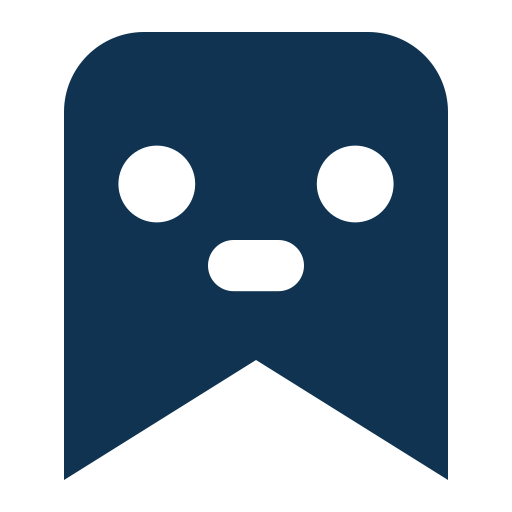
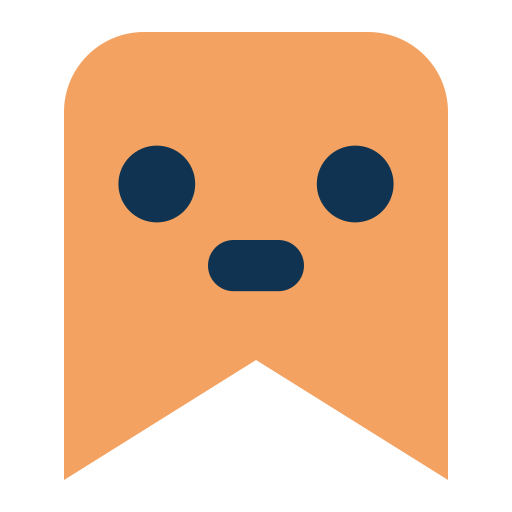
style: use the orange symbol on light backgrounds too
The symbol is now orange with navy eyes and mouth in every theme. The
light lockup keeps its navy wordmark. The favicon no longer switches
colours with the system theme, and the hero panel needs a single image.

diff --git a/src/styles/landing.css b/src/styles/landing.css
@@ -664,18 +664,6 @@ figure.demo-figure figcaption {
 	overflow-wrap: anywhere;
 }
 
-.hero-panel-brand .symbol-dark {
-	display: none;
-}
-
-:root[data-theme='dark'] .hero-panel-brand .symbol-light {
-	display: none;
-}
-
-:root[data-theme='dark'] .hero-panel-brand .symbol-dark {
-	display: inline;
-}
-
 .capability-card h3 {
 	font-size: 20px;
 	margin: 0;
